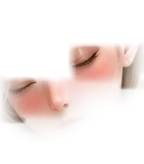
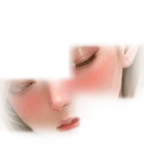
День 2 стадия 2: убраны чёрные точки при закрытии глаз — низ глаза расширен (нижние ресницы), на полупрозрачной кромке нет структуры, точечная медианная чистка

diff --git a/tools/prep_eyes.py b/tools/prep_eyes.py
@@ -247,8 +247,11 @@ def build(day, tag, mood, debug=False):
     dh = ImageDraw.Draw(hard)
     for b in EYES[key]:
         e = (b[0] * tw, b[1] * th, b[2] * tw, b[3] * th)
-        ex, ey = (e[2] - e[0]) * 0.06, (e[3] - e[1]) * 0.06
-        dh.rectangle([e[0] - ex, e[1] - ey, e[2] + ex, e[3] + ey], fill=255)
+        ew_, eh_ = e[2] - e[0], e[3] - e[1]
+        # Низ расширяем: под глазом остаётся тёмная линия нижних ресниц, и в
+        # растушёвке она просвечивала чёрными точками на закрытом веке.
+        dh.rectangle([e[0] - ew_ * 0.22, e[1] - eh_ * 0.06,
+                      e[2] + ew_ * 0.22, e[3] + eh_ * 0.45], fill=255)
     # кромку ядра растушёвываем сильнее: при 2 px на коже была видна прямая
     # граница прямоугольника («стеклянная плашка» над глазом)
     hard = hard.filter(ImageFilter.GaussianBlur(5))
@@ -276,8 +279,9 @@ def build(day, tag, mood, debug=False):
     box_only = np.zeros((th, tw), dtype='uint8')
     for b in EYES[key]:
         e = (b[0] * tw, b[1] * th, b[2] * tw, b[3] * th)
-        ex, ey = (e[2] - e[0]) * 0.20, (e[3] - e[1]) * 0.20
-        cv2.rectangle(box_only, (int(e[0] - ex), int(e[1] - ey)), (int(e[2] + ex), int(e[3] + ey)), 255, -1)
+        ew_, eh_ = e[2] - e[0], e[3] - e[1]
+        cv2.rectangle(box_only, (int(e[0] - ew_ * 0.30), int(e[1] - eh_ * 0.10)),
+                      (int(e[2] + ew_ * 0.30), int(e[3] + eh_ * 0.50)), 255, -1)
     eye_px = cv2.bitwise_and(eye_px, box_only)
     eye_px = cv2.dilate(eye_px, np.ones((5, 5), 'uint8'))
     eye_px = cv2.GaussianBlur(eye_px, (0, 0), 1.6)
@@ -332,7 +336,10 @@ def build(day, tag, mood, debug=False):
     ra = np.asarray(ref.convert('RGB'), dtype=np.float32)
     ga = np.asarray(gg.convert('RGB'), dtype=np.float32)
     sig = max(2.5, min(ref.size) * 0.045)
-    low = cv2.GaussianBlur(ga - ra, (0, 0), sig)
+    # Поправку ограничиваем: у сильных контрастов (кромка волос над глазом)
+    # размытая разница уходила в десятки уровней и вычиталась из патча —
+    # на полупрозрачном крае маски это читалось как ЧЁРНЫЕ ПЯТНЫШКИ на лице.
+    low = np.clip(cv2.GaussianBlur(ga - ra, (0, 0), sig), -12.0, 12.0)
     g2c = Image.fromarray(np.clip(ga - low, 0, 255).astype('uint8'), 'RGB')
     canvas_rgb = flat.copy()
     canvas_rgb.paste(g2c, (box[0] + dx, box[1] + dy))
@@ -357,7 +364,7 @@ def build(day, tag, mood, debug=False):
             ggb = gb2 if gb2.size == ref.size else gb2.resize(ref.size, Image.LANCZOS)
             rab = np.asarray(ref.convert('RGB'), dtype=np.float32)
             gbb = np.asarray(ggb.convert('RGB'), dtype=np.float32)
-            lowb = cv2.GaussianBlur(gbb - rab, (0, 0), sig)
+            lowb = np.clip(cv2.GaussianBlur(gbb - rab, (0, 0), sig), -12.0, 12.0)
             gbc = Image.fromarray(np.clip(gbb - lowb, 0, 255).astype('uint8'), 'RGB')
             canvas_b = flat.copy()
             canvas_b.paste(gbc, (box[0] + dxb, box[1] + dyb))
@@ -400,6 +407,31 @@ def build(day, tag, mood, debug=False):
     win = win.filter(ImageFilter.GaussianBlur(max(2, int(min(full.size) * 0.07))))
     full_alpha = ImageChops.multiply(full_alpha, win)
     full.putalpha(full_alpha)
+
+    # На ПОЛУПРОЗРАЧНОЙ кромке не должно быть структуры (ресниц, брови): там
+    # содержимое генерата смещено на пару пикселей и читается как чёрные
+    # пятнышки на коже. Поэтому на краю патч не темнее арта больше чем на 28
+    # уровней — остаются только плавные переходы (румянец, тени).
+    arr_ = np.asarray(full).astype(np.float32)
+    art_c = np.asarray(flat.crop(cbox).convert('RGB'), dtype=np.float32)
+    al_ = arr_[..., 3:4] / 255.0
+    low_mask = al_ < 0.86
+    arr_[..., :3] = np.where(low_mask, np.maximum(arr_[..., :3], art_c - 28.0), arr_[..., :3])
+    full = Image.fromarray(np.clip(arr_, 0, 255).astype('uint8'), 'RGBA')
+
+    # Точечная чистка: одиночные тёмные точки (след смещённой ресницы/тени)
+    # заменяем медианой окружения. Линии (само веко) медиана сохраняет,
+    # поэтому структура не страдает — исчезают именно «пятнышки».
+    arr2_ = np.asarray(full).astype(np.float32)
+    rgb_im = full.convert('RGB')
+    med_ = np.asarray(rgb_im.filter(ImageFilter.MedianFilter(5)), dtype=np.float32)
+    lum_ = arr2_[..., :3].mean(axis=2)
+    lmed_ = med_.mean(axis=2)
+    artl_ = art_c.mean(axis=2)
+    spot_ = (lum_ < artl_ - 22.0) & (lmed_ > lum_ + 10.0) & (arr2_[..., 3] > 90)
+    if spot_.any():
+        arr2_[..., :3] = np.where(spot_[..., None], med_, arr2_[..., :3])
+        full = Image.fromarray(np.clip(arr2_, 0, 255).astype('uint8'), 'RGBA')
     GEO[key] = [round(gx0, 4), round(gy0, 4), round(gx1 - gx0, 4), round(gy1 - gy0, 4)]
     out = os.path.join(OUT, f'art_real_face_day{day}_{tag}_{mood}.webp')
     full.save(out, 'WEBP', quality=92, alpha_quality=100, method=6)
